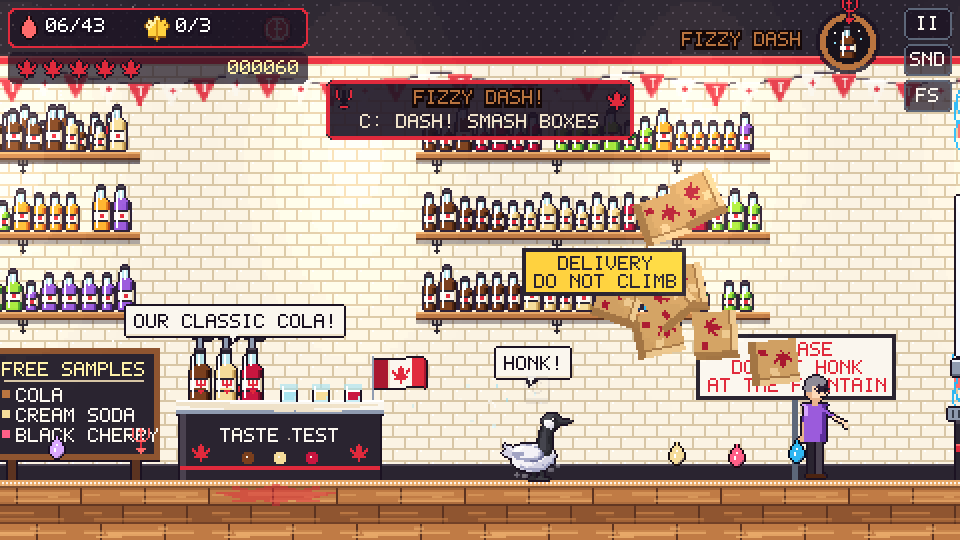
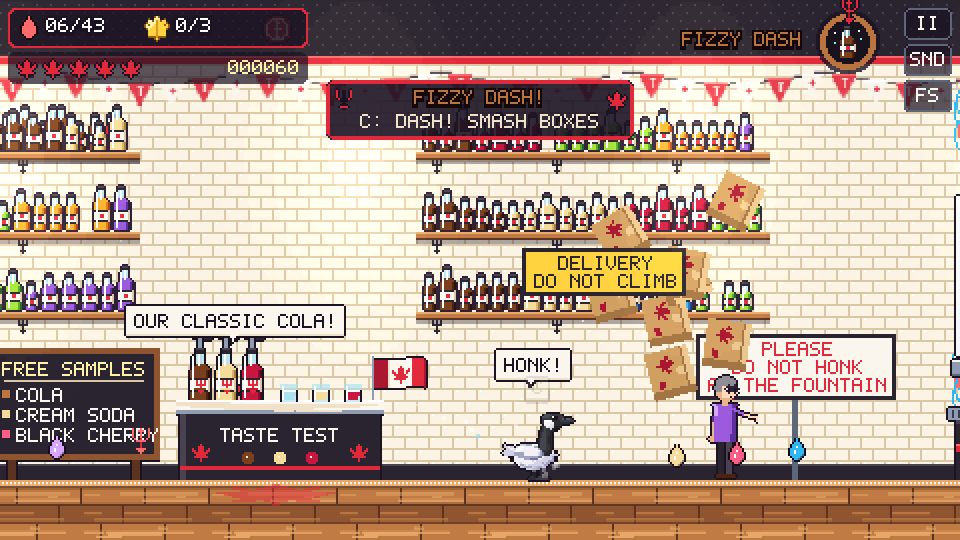
Reliable phone jump, owners face the way they walk, box wall fixes
- Touch: buttons register on finger-down (sub-frame taps never lost); open lower-right area = JUMP;
  JUMP bigger and moved off the iPhone home-swipe corner
- Dave/Gerry walk/run frames (drawn facing left) flipped to face their direction; long walks use the run cycle
- Power Honk knocks over the box wall; sample power survives a stockroom trip
- Clear 'STOCKROOM FIRST!' toast when bumping/dashing into the barrier

Claude-Session: https://claude.ai/code/session_019Ne5GHyCBQvH5tGTV4PYB6

diff --git a/simps-goose/src/scenes/StoreScene.ts b/simps-goose/src/scenes/StoreScene.ts
@@ -16,6 +16,7 @@ import { WORLD_W, WORLD_H, FLOOR, CEIL, L, BG_PARALLAX, BG_W, bgX, solids } from
 import { TRIDENT_STAND } from '../art/motifs';
 import { LevelScene, Rect, SwitchLike } from '../levels/LevelScene';
 import { GS } from '../systems/gamestate';
+import type { PowerId } from '../data/recipes';
 import { complete, unlock, StageId, save, update } from '../systems/save';
 import { txt } from '../art/font';
 import type { Platform } from '../systems/physics';
@@ -53,7 +54,7 @@ export class StoreScene extends LevelScene {
   valves: SyrupValve[] = []; seq = [1, 0, 2]; seqIdx = 0; workshopOn = false; workshopDone = false; finalSwitch: { x: number; on: boolean; img: Phaser.GameObjects.Image } | null = null;
   wsBubbles: { b: import('../entities/Bubbles').Bubble; x0: number; x1: number; ph: number; sp: number }[] = []; overfill: { img: Phaser.GameObjects.Image; x: number; y: number; t: number; dead: number }[] = [];
   gaugeImg: Phaser.GameObjects.Image | null = null;
-  sampledAny = false; ropeLeft = true; checklistSeen = false; objT!: Phaser.GameObjects.BitmapText; objBg!: Phaser.GameObjects.Rectangle; checklist: Phaser.GameObjects.Container | null = null; pushBack = 0;
+  sampledAny = false; ropeLeft = true; checklistSeen = false; ropeToastAt = -99999; objT!: Phaser.GameObjects.BitmapText; objBg!: Phaser.GameObjects.Rectangle; checklist: Phaser.GameObjects.Container | null = null; pushBack = 0;
   rope: Platform | null = null; ropeSign: Phaser.GameObjects.Container | null = null; daveNagT = 0; ropeImg: Phaser.GameObjects.Image | null = null; returning = false; welcomeDone = false;
   wallShelfHonks = 0;
   bumpedWall = 0;
@@ -84,7 +85,7 @@ export class StoreScene extends LevelScene {
     this.finishInit({ music: 'store', spawnX: this.returning ? 1524 : undefined, spawnY: this.returning ? FLOOR : undefined });
     this.boxWall = new BoxWall(this, this.world, L.boxWall.x, L.boxWall.cols, L.boxWall.rows, L.boxWall.bw, L.boxWall.bh);
     const bw = this.boxWall;
-    this.breakables.push({ get broken() { return bw.toppled; }, rect: () => bw.rect(), by: ['dash', 'shot'], smash: (dir: number) => bw.topple(dir, this.world, (x, y) => this.fx.dust(x, y, 6)) });
+    this.breakables.push({ get broken() { return bw.toppled; }, rect: () => bw.rect(), by: ['dash', 'shot', 'powerhonk'], smash: (dir: number) => bw.topple(dir, this.world, (x, y) => this.fx.dust(x, y, 6)) });
     this.add.image(L.boxWall.x + 24, FLOOR - 92, 'signDelivery').setOrigin(0.5, 1).setDepth(37);
     this.lift = new TridentLift(this, this.world, L.lift.x, L.lift.low, L.lift.high);
     this.sampling = new Sampling(this);
@@ -404,13 +405,15 @@ export class StoreScene extends LevelScene {
   atStockDoor() { const d = this.goose.x - STOCK_X; return d > -26 && d < 8; }
   enterStockroom() {
     const got = this.pickups.filter((p) => p.got).map((p) => p.id);
-    this.registry.set('storeSnap', { got, counts: { ...this.counts }, sampled: (this.sampling as unknown as { done?: string[] }).done ?? [] });
+    this.registry.set('storeSnap', { got, counts: { ...this.counts }, sampled: (this.sampling as unknown as { done?: string[] }).done ?? [], power: this.power, powerT: this.powerT });
     SFX.door(); this.phase = 'cutscene';
     GS.persistRun();
     this.goTo('Stockroom');
   }
   restoreSnap() {
-    const snap = this.registry.get('storeSnap') as { got: string[]; counts: Record<string, number> } | undefined;
+    const snap = this.registry.get('storeSnap') as { got: string[]; counts: Record<string, number>; power?: PowerId | null; powerT?: number } | undefined;
+    // keep the sample power you had before the stockroom (topped up so you can still bust the boxes)
+    if (snap?.power) this.time.delayedCall(300, () => { this.setPower(snap.power!); this.powerT = Math.max(this.powerT, snap.powerT ?? 0); });
     if (snap) for (const pk of this.pickups) if (snap.got.includes(pk.id)) { pk.got = true; pk.img.destroy(); pk.shade?.destroy(); this.counts[pk.kind]++; }
     this.game.events.emit('hud:drops', this.counts.drop + this.counts.bean, this.totals.drop + this.totals.bean);
     this.game.events.emit('hud:leaf', this.counts.leaf, this.totals.leaf);
@@ -430,7 +433,7 @@ export class StoreScene extends LevelScene {
     const use = this.touch ? 'SIP' : 'E';
     if (!this.sampledAny && !save().stockDone) return `NEXT: SIP A FREE SAMPLE AT THE COUNTER (${use})`;
     if (!save().stockDone) return `NEXT: GO THROUGH THE STOCK DOOR (${use}) AFTER THE SAMPLES`;
-    if (!this.boxWall.toppled && this.goose.x < L.boxWall.x) return this.power === 'cola' ? `NEXT: DASH INTO THE BOX WALL (${this.touch ? 'POWER' : 'C'})` : 'NEXT: GET A COLA SAMPLE, THEN DASH THROUGH THE BOXES';
+    if (!this.boxWall.toppled && this.goose.x < L.boxWall.x) return this.power === 'cola' ? `NEXT: DASH INTO THE BOX WALL (${this.touch ? 'POWER' : 'C'})` : save().powerHonk ? `NEXT: HOLD ${this.touch ? 'HONK' : 'X'} BY THE BOXES FOR A POWER HONK (OR COLA + DASH)` : 'NEXT: GET A COLA SAMPLE, THEN DASH THROUGH THE BOXES';
     if (this.fountain.stage < 2) return `NEXT: HONK AT THE FOUNTAIN TWICE (${this.touch ? 'HONK' : 'X'})`;
     if (!this.workshopDone) {
       if (!this.workshopOn) return "NEXT: DAVE'S BUBBLE WORKSHOP, UNDER THE MEZZANINE";
@@ -573,6 +576,11 @@ export class StoreScene extends LevelScene {
         this.dave.say(this.sampledAny ? "GOOSE! I NEED YOUR HELP IN THE STOCKROOM. IT'S THIS DOOR!" : 'TRY A SAMPLE, THEN COME HELP ME IN THE STOCKROOM!', 3400);
         this.dave.act('point', 1.5); SFX.hey(this.dave.pitch);
       }
+    }
+    // bumping (or dashing) into the stockroom barrier: say clearly what it is
+    if (this.rope && this.rope.active && this.phase === 'play' && g.x > 1500 && g.x < 1546 && (this.goose.body.hitWall === 1 || this.goose.dashing) && this.time.now - this.ropeToastAt > 5000) {
+      this.ropeToastAt = this.time.now;
+      this.game.events.emit('hud:toast', 'STOCKROOM FIRST!', C.red0, this.touch ? 'HELP DAVE: STOCK DOOR, PRESS SIP' : 'HELP DAVE: STOCK DOOR, PRESS E');
     }
     if (this.rope && this.phase === 'play' && g.x > 1500 && g.x < 1546 && this.goose.body.hitWall === 1) { this.dave.lastLine = this.dave.lastLine || 0; if (this.time.now - this.dave.lastLine > 2500) { this.dave.say('STOCKROOM FIRST! LEND US A WING?', 1800); this.dave.act('point', 1); } }
     if (!this.workshopOn && !this.workshopDone && this.phase === 'play' && g.x > WS.x - 40 && g.y > FLOOR - 40) {

diff --git a/simps-goose/src/scenes/UIScene.ts b/simps-goose/src/scenes/UIScene.ts
@@ -49,7 +49,15 @@ export class UIScene extends Phaser.Scene {
     this.buildHud();
     this.buildPicker();
     this.touchOn = this.registry.get('touch') === true;
-    if (this.touchOn) this.buildTouch();
+    if (this.touchOn) {
+      this.buildTouch();
+      this.input.on('pointerdown', (p: Phaser.Input.Pointer) => {
+        if (this.ended || this.menu || this.picker.visible || portraitPad()) return;
+        const w = this.cameras.main.getWorldPoint(p.x, p.y);
+        const b = this.btnAt(w.x, w.y);
+        if (b) { Controls.setTouch(b.a, true); if (b.a === 'interact') Controls.setTouch('confirm', true); }
+      });
+    }
     this.applyEdges();
     const onView = () => this.applyEdges(); this.game.events.on('view:changed', onView); this.events.once('shutdown', () => this.game.events.off('view:changed', onView));
     const ev = this.game.events;
@@ -345,7 +353,7 @@ export class UIScene extends Phaser.Scene {
   // ------------------------------------------------------------ touch
   buildTouch() {
     // right thumb: action buttons (bigger + more forgiving than before). left thumb: a drag stick.
-    const defs: [Action, string, number][] = [['jump', 'JUMP', 28], ['honk', 'HONK', 21], ['ability', 'POWER', 21], ['interact', 'SIP', 19]];
+    const defs: [Action, string, number][] = [['jump', 'JUMP', 31], ['honk', 'HONK', 21], ['ability', 'POWER', 20], ['interact', 'SIP', 19]];
     for (const [a, label, r] of defs) this.touchBtns.push({ a, label, r, x: 0, y: 0, down: false });
     this.stickG = this.add.graphics().setDepth(5);
     this.stickHint = txt(this, 0, 0, '< >', { align: 'center', outline: false, color: C.wht }).setDepth(6).setAlpha(0.6);
@@ -359,7 +367,7 @@ export class UIScene extends Phaser.Scene {
   }
   layoutTouch() {
     if (!this.touchOn) return;
-    const pos: Record<string, [number, number]> = { jump: [446, 230], honk: [392, 248], ability: [450, 176], interact: [398, 198] };
+    const pos: Record<string, [number, number]> = { jump: [438, 218], honk: [384, 244], ability: [452, 160], interact: [392, 190] }; // JUMP up + in from the corner (iPhone's home-swipe area)
     const ox = VIEW.ox; // wide screens: stick hugs the left edge, action buttons the right edge
     for (const b of this.touchBtns) {
       [b.x, b.y] = pos[b.a];
@@ -386,6 +394,13 @@ export class UIScene extends Phaser.Scene {
     g.clear().fillStyle(C.ink, this.stick ? 0.45 : 0.3).fillCircle(base.x, base.y, 30).lineStyle(2, C.red1, this.stick ? 0.9 : 0.55).strokeCircle(base.x, base.y, 30);
     g.fillStyle(this.stick ? C.red1 : C.ink, this.stick ? 0.85 : 0.5).fillCircle(k.x, k.y, 14).lineStyle(2, C.wht, this.stick ? 0.9 : 0.4).strokeCircle(k.x, k.y, 14);
     this.stickHint?.setPosition(base.x, base.y - 4).setVisible(!this.stick);
+  }
+  /** Which action button a point hits: the nearest within a generous reach; anywhere else lower-right = JUMP. */
+  btnAt(x: number, y: number): TouchBtn | null {
+    let best: TouchBtn | null = null, bd = 1e9;
+    for (const b of this.touchBtns) { const d = Math.hypot(x - b.x, y - b.y) - b.r; if (d < 12 && d < bd) { bd = d; best = b; } }
+    if (!best && x > 330 + VIEW.ox && y > 120) best = this.touchBtns.find((b) => b.a === 'jump') ?? null;
+    return best;
   }
   updateTouch() {
     if (!this.touchOn || this.ended) return;
@@ -414,8 +429,7 @@ export class UIScene extends Phaser.Scene {
     for (const p of ptrs) {
       if (p === stickP) continue;
       const w = cam.getWorldPoint(p.x, p.y);
-      let best: TouchBtn | null = null, bd = 1e9;
-      for (const b of this.touchBtns) { const d = Math.hypot(w.x - b.x, w.y - b.y) - b.r; if (d < 12 && d < bd) { bd = d; best = b; } }
+      const best = this.btnAt(w.x, w.y);
       if (best) pressed.add(best);
     }
     let changed = !!stickP !== this.stickWas; this.stickWas = !!stickP;

diff --git a/simps-goose/src/entities/Person.ts b/simps-goose/src/entities/Person.ts
@@ -70,7 +70,8 @@ export class Person {
   cheer() { this.setState('cheer', 99); }
   /** play an arbitrary animation (talk, pour, drink, point, hold, toast, clip, catch, wave...) for dur seconds */
   act(anim: string, dur = 1.5) { this.state = 'gesture'; this.t = dur; const k = `p_${this.key}_${anim}`; if (this.sprite.scene.anims.exists(k)) this.sprite.play(k, true); }
-  walkTo(x: number, speed = 40, then?: () => void) { this.facing = x > this.x ? 1 : -1; this.setState('walk', 99); this.sprite.scene.tweens.add({ targets: this.sprite, x, duration: Math.abs(x - this.x) / speed * 1000, onComplete: () => { this.setState(this.staff ? 'idle' : 'browse', 1); then?.(); } }); }
+  get owner() { return this.key === 'dave' || this.key === 'gerry'; }
+  walkTo(x: number, speed = 40, then?: () => void) { this.facing = x > this.x ? 1 : -1; this.setState('walk', 99); if (this.owner && speed > 95) this.play('flee'); /* fast = the running frames, so feet keep up */ this.sprite.scene.tweens.add({ targets: this.sprite, x, duration: Math.abs(x - this.x) / speed * 1000, onComplete: () => { this.setState(this.staff ? 'idle' : 'browse', 1); then?.(); } }); }
   update(dt: number) {
     this.cooldown -= dt;
     this.t -= dt;
@@ -99,6 +100,9 @@ export class Person {
         break;
       case 'cheer': break;
     }
-    this.sprite.setFlipX(this.facing < 0);
+    // Dave + Gerry's hand-drawn walk/run frames face LEFT (their standing frames face right): flip those the other way
+    const anim = this.sprite.anims.currentAnim?.key ?? '';
+    const leftFacingFrames = this.owner && (anim.endsWith('_walk') || anim.endsWith('_flee'));
+    this.sprite.setFlipX(leftFacingFrames ? this.facing > 0 : this.facing < 0);
   }
 }
